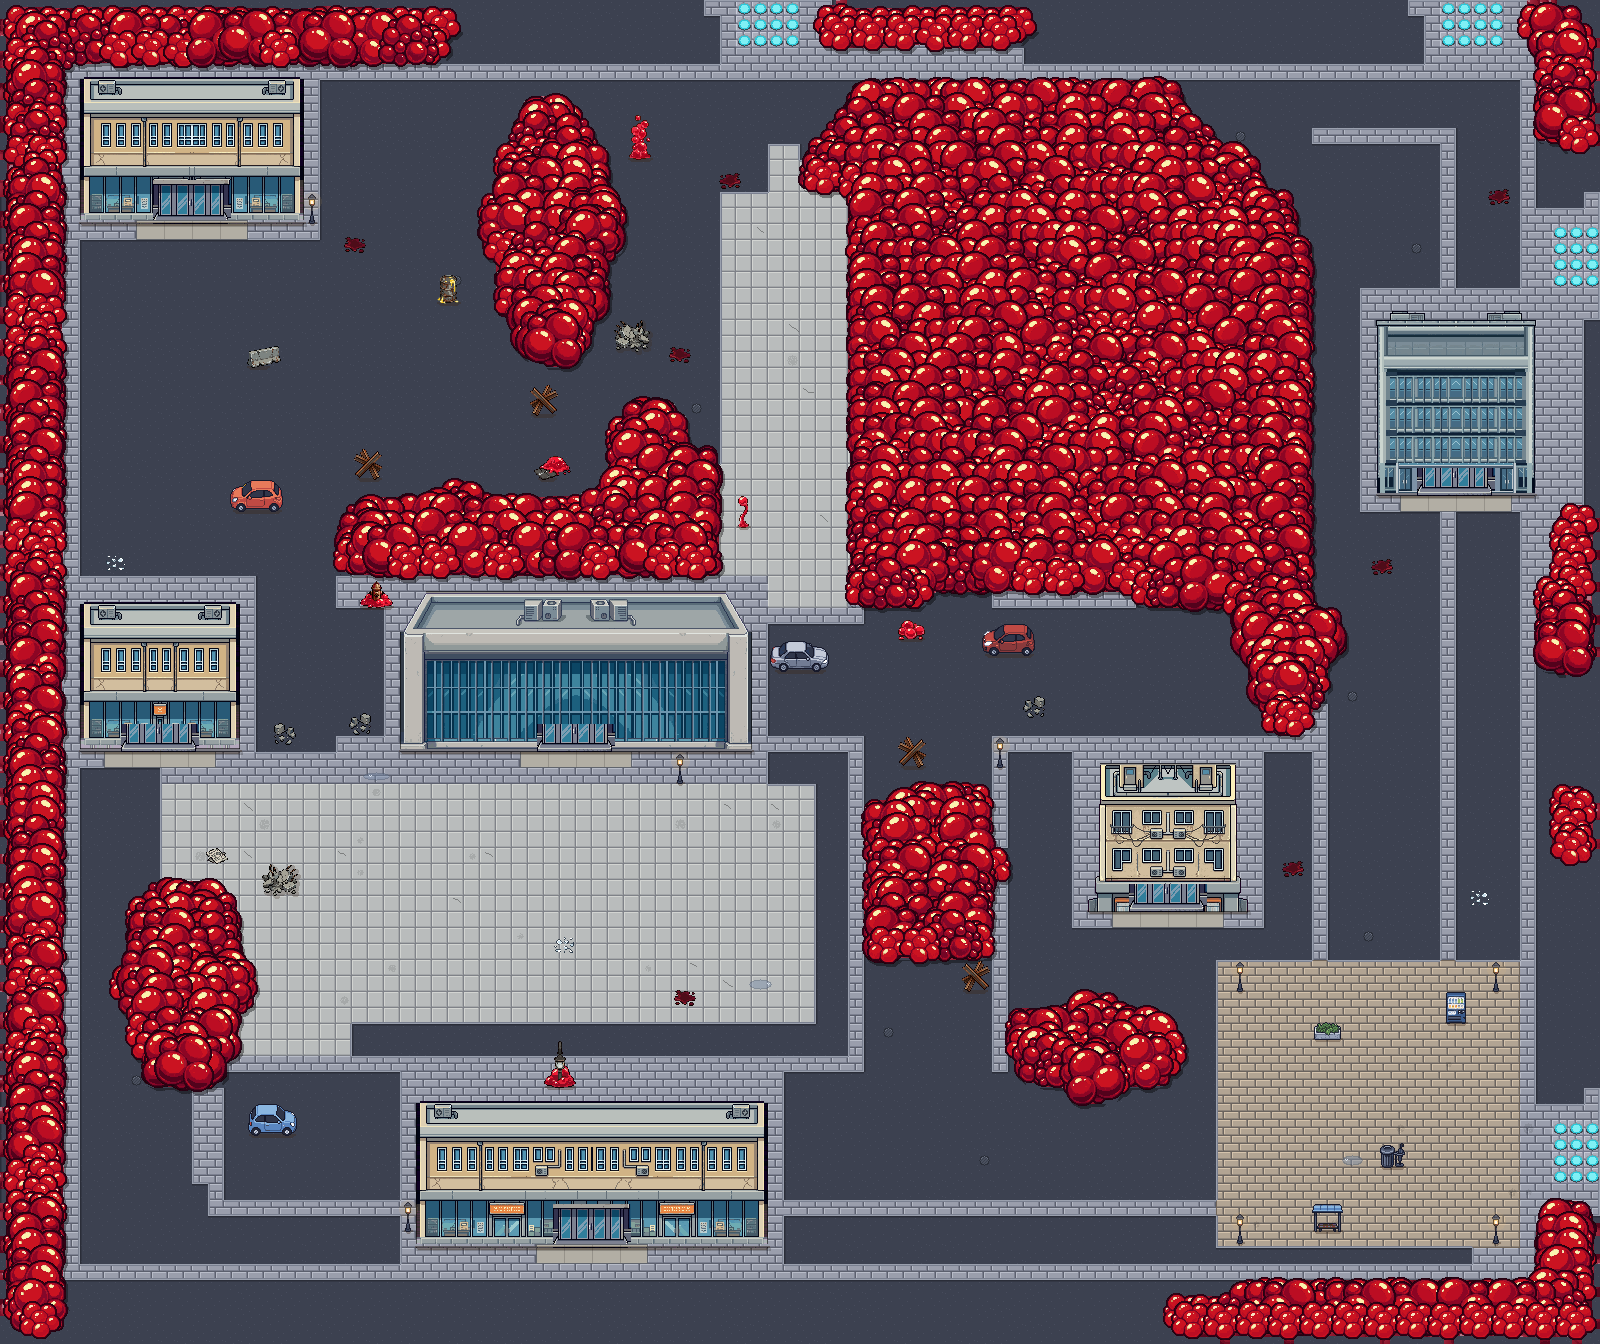
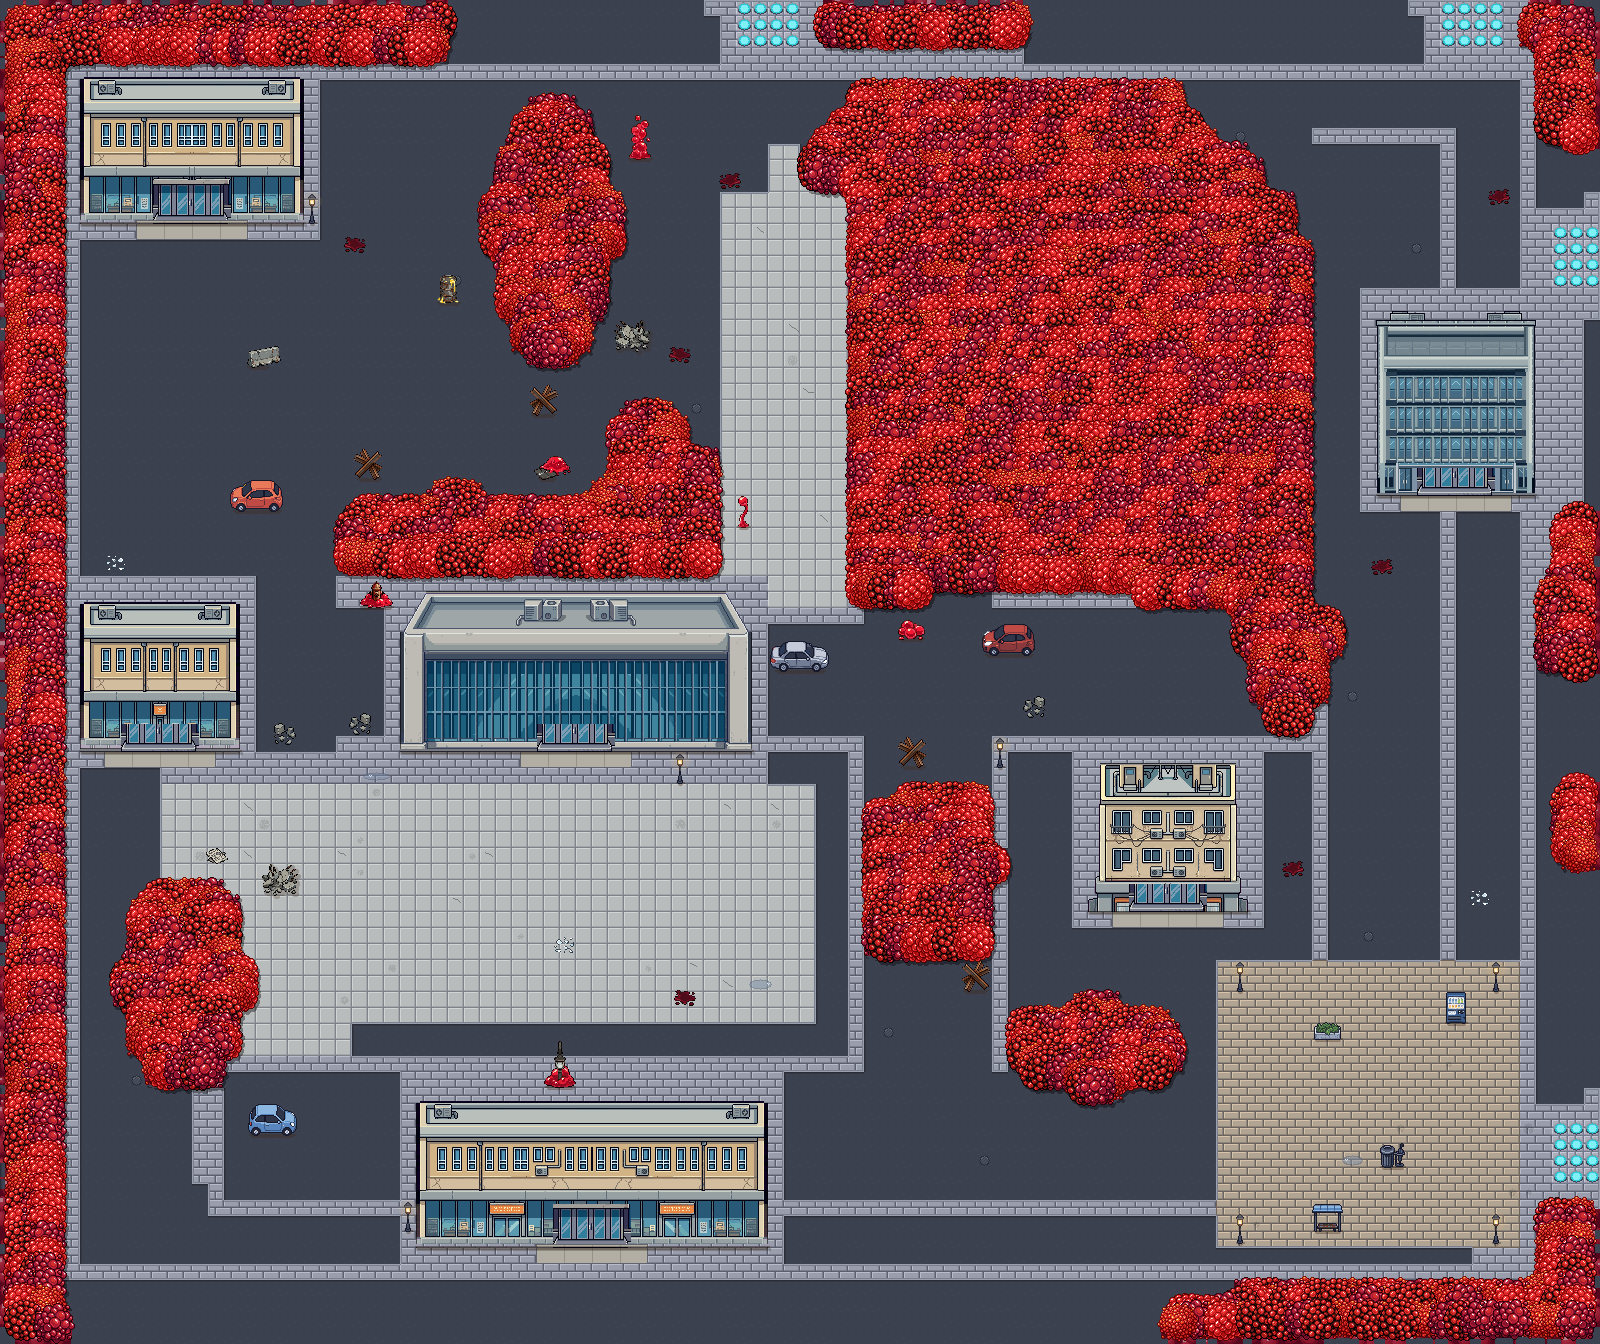
Test: kleinere Blasenhaufen (PixelLab k52_masse_fein, 48 px) für die D-Reaper-Masse - Zwischenstand, noch nicht abgenommen
Claude-Session: https://claude.ai/code/session_01SaoYHKhnro4LFcPJqjaPsq

diff --git a/tools/dreaper.py b/tools/dreaper.py
@@ -77,6 +77,7 @@ def blasen(h, w, f, seed, x0=0, y0=0):
 
 
 _STEMPEL = None
+FEIN_DICHTE = 2                                                        # 1 = jede Kachel ein Haufen, 2 = jede zweite
 
 
 def stempel_laden():
@@ -88,7 +89,9 @@ def stempel_laden():
         gross = [Image.open(os.path.join(basis, 'masse', '%02d.png' % i)).convert('RGBA') for i in (0, 1, 3)]
         klein = [Image.open(os.path.join(basis, 'masse_klein', '%02d.png' % i)).convert('RGBA')
                  for i in (0, 2, 12, 15)]                            # helle, runde Haufen (dunkle wirken am Rand wie Saum)
-        _STEMPEL = ([g.crop(g.getbbox()) for g in gross], [k.crop(k.getbbox()) for k in klein])
+        fein = [Image.open(os.path.join(basis, 'masse_fein', '%02d.png' % i)).convert('RGBA') for i in (0, 1, 2, 3)]
+        _STEMPEL = ([g.crop(g.getbbox()) for g in gross], [k.crop(k.getbbox()) for k in klein],
+                    [k.crop(k.getbbox()) for k in fein])
     return _STEMPEL
 
 
@@ -112,7 +115,7 @@ def stempeln(mm, f, seed, flach=False, x0=0, y0=0, T=16, ueber=3):
     (jede zweite Kachel, Reihen um eine Kachel verschoben), leicht ueberlappend, von Norden nach Sueden gezeichnet - keine
     kleinen Fuellblasen, nichts beschnitten. Animation: jeder Haufen hebt/senkt sich mit eigener Phase um 1 px (4 Bilder).
     Rueckgabe: RGBA-Ebene (Alpha 0/1) in Groesse der Maske und der Abstand zur Kante."""
-    _, gross = stempel_laden()                                        # 64er-Haufen in Originalgroesse (keine Skalierung, Nutzer: sauber)
+    gross = stempel_laden()[2]                                         # Nutzer: kleine Blasen (48er-Haufen, Originalgroesse)
     h, w = mm.shape
     dist = _abstand(mm)
     mm_d = np.array(Image.fromarray(mm.astype(np.uint8) * 255).filter(ImageFilter.MaxFilter(2 * ueber + 1))) > 0
@@ -121,7 +124,7 @@ def stempeln(mm, f, seed, flach=False, x0=0, y0=0, T=16, ueber=3):
     ty0, tx0 = -((y0 + 1) // T) - 1, -((x0 + 1) // T) - 1
     for ty in range(y0 // T - 1, (y0 + h) // T + 2):
         for tx in range(x0 // T - 1, (x0 + w) // T + 2):
-            if (tx + ty) % 2:
+            if FEIN_DICHTE == 2 and (tx + ty) % 2:
                 continue
             cy, cx = ty * T + T // 2 - y0, tx * T + T // 2 - x0       # Kachelmitte (global am Raster)
             if not (0 <= cy < h and 0 <= cx < w) or not mm[cy, cx]:

diff --git a/tools/pixellab_objekte.py b/tools/pixellab_objekte.py
@@ -2258,6 +2258,12 @@ OBJEKTGRUPPEN_K21 = {   # Karte 21 (Digi-Egg Valley), Stil wie Karte 20 / Karte 
         'few big glossy red jelly bubbles touching each other, seen from directly above, top-down view, no ground, no cast shadow, highly detailed pixel art, classic 2D handheld RPG style',
         'patch of tiny glossy red jelly bubbles, seen from directly above, top-down view, no ground, no cast shadow, highly detailed pixel art, classic 2D handheld RPG style',
     ]},
+    'k52_masse_fein': {'size': 48, 'freie_farben': True, 'items': [   # Nutzer: Blasen kleiner (Objekte wirkten daneben winzig)
+        'round heap of many small glossy bright red jelly bubbles packed tightly, each bubble small with a tiny white highlight, seen from directly above, top-down view, no ground, no cast shadow, crisp detailed pixel art, classic 2D handheld RPG style',
+        'dense cluster of small glossy crimson jelly bubbles of slightly different sizes, seen from directly above, top-down view, no ground, no cast shadow, crisp detailed pixel art, classic 2D handheld RPG style',
+        'compact mound of small glossy red jelly beads with tiny wet highlights, seen from directly above, top-down view, no ground, no cast shadow, crisp detailed pixel art, classic 2D handheld RPG style',
+        'round patch of many small glossy red bubbles with darker gaps, seen from directly above, top-down view, no ground, no cast shadow, crisp detailed pixel art, classic 2D handheld RPG style',
+    ]},
     'k54_klein': {'size': 32, 'freie_farben': True, 'items': [
         'coiled thick black power cable with a brass plug lying on the floor, flat ground detail, ' + FR14,
         'grey metal floor vent grate, flat ground detail, ' + FR14,
